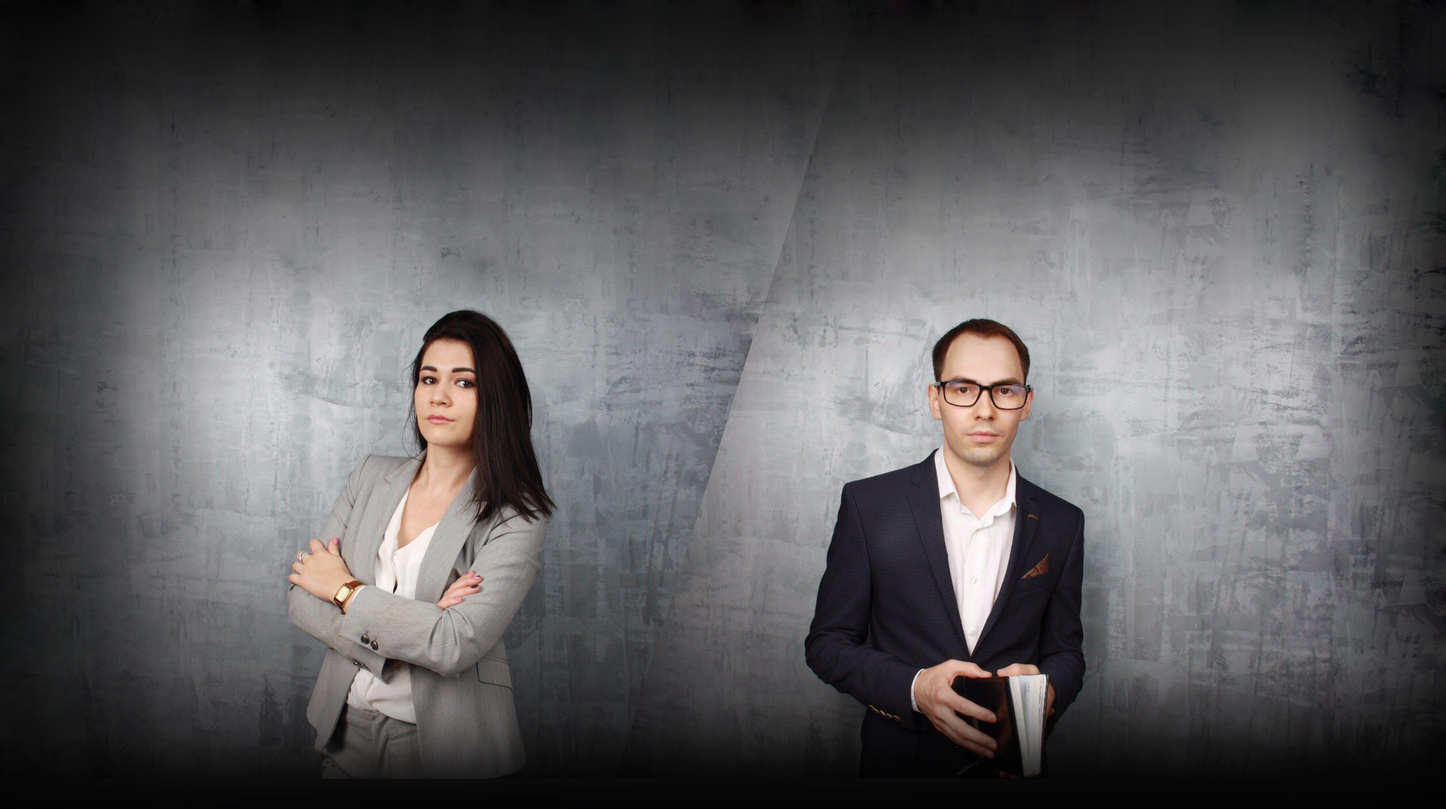
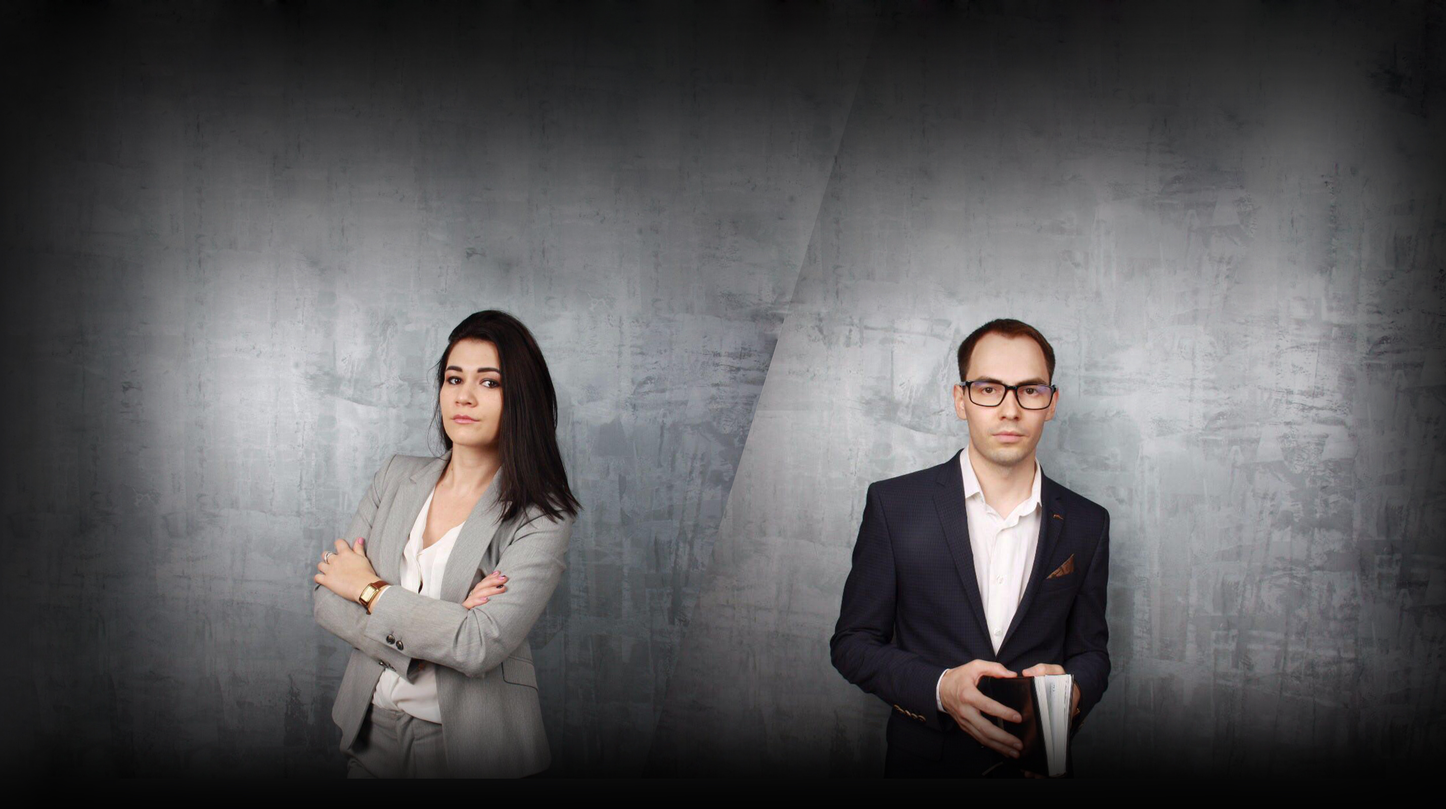
and made a lot of fix

diff --git a/style/style.css b/style/style.css
@@ -26,7 +26,7 @@
   background-image: url("../image/banner/price.jpg");
   background-size: 108%;
   background-position: bottom;
-  height: 1030px;
+  height: 925px;
   background-repeat: repeat-x;
 }
 
